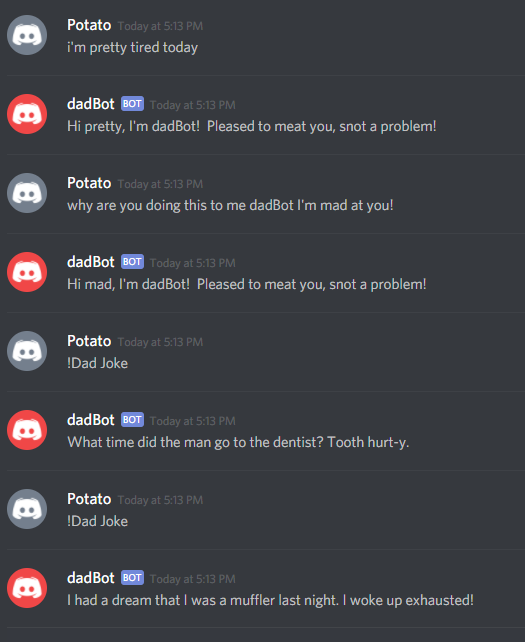
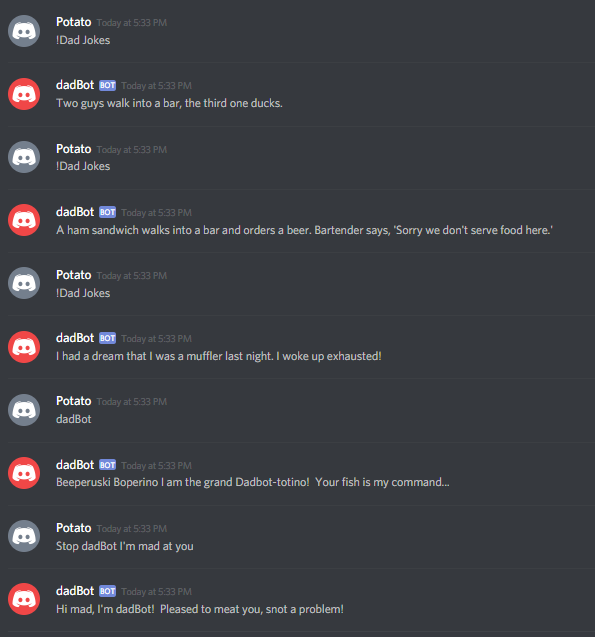
more delicious dadbot goodness

Changed region(s): [[0.0, 0.5071, 0.9143, 0.9843], [0.0, 0.1193, 0.9143, 0.4772], [0.0, 0.0, 0.3962, 0.0895]]

diff --git a/dadBot.js b/dadBot.js
@@ -36,6 +36,9 @@ bot.on('message', function (user, userID, channelID, message, evt) {
 	 randInt= Math.floor(Math.random()* (max - min)) + min;
 	 bot.sendMessage({to:channelID, message:selectDadJoke[randInt]});
       }  
+	  else if(message.indexOf("dadBot")>-1 && user!="dadBot"){
+		  bot.sendMessage({to:channelID, message:"Beeperuski Boperino I am the grand Dadbot-totino!  Your fish is my command..."});
+	  }
 });
 
 
